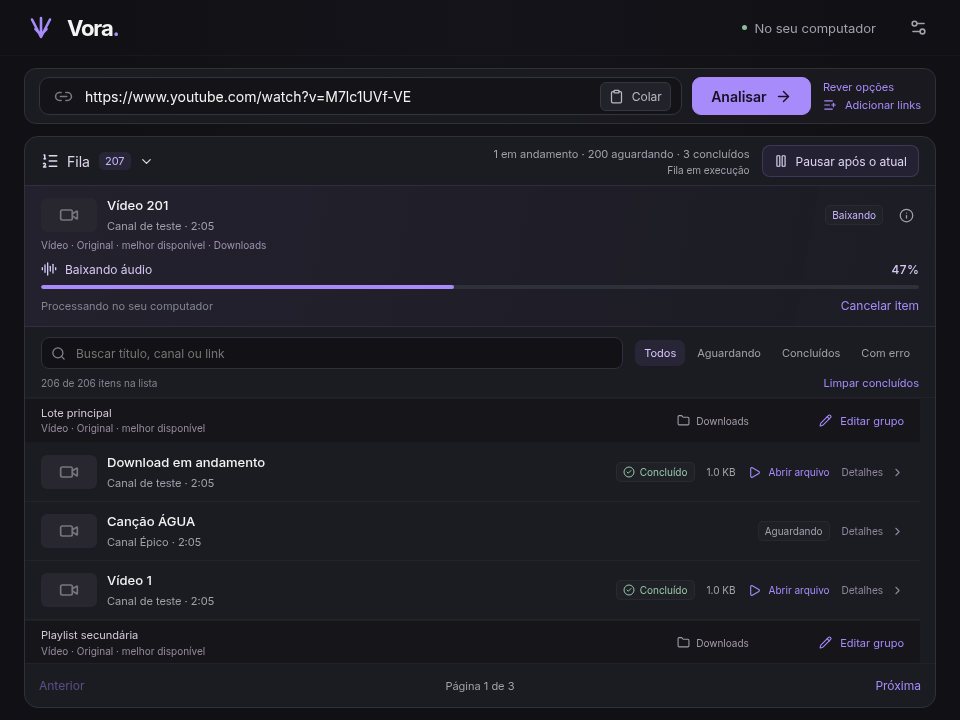
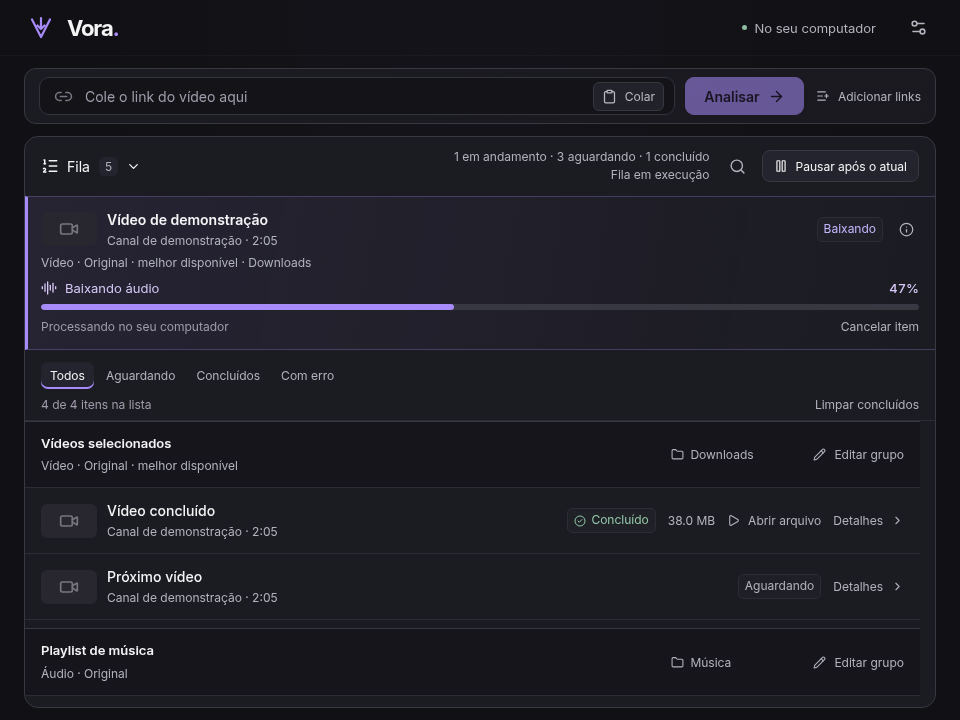
docs: document visual identity and refresh screenshots

diff --git a/docs/VISUAL_IDENTITY.md b/docs/VISUAL_IDENTITY.md
@@ -1,0 +1,51 @@
+# Identidade visual do Vora
+
+O Vora usa superfícies escuras, tipografia Inter e lavanda para transmitir clareza, organização e autonomia. A assinatura verbal é **Áudio e vídeo, do seu jeito.**
+
+## Marca
+
+O símbolo combina um V com uma seta de download. A seta termina antes da ponta do V para preservar o espaço interno em tamanhos pequenos. O nome no aplicativo usa peso 700 e um ponto lavanda.
+
+A geometria do cabeçalho está em `src/App.tsx`; o ícone de instalação está em `assets/icon.svg`. Mantenha os dois desenhos alinhados e regenere `assets/icon.png` e `public/icon.png` ao alterar o SVG. Confira a leitura em 16, 24 e 32 px, além do ícone de 512 px.
+
+![Ícone do Vora em 16, 24 e 32 pixels sobre fundos escuro e claro](images/icones.png)
+
+A prancha registra a renderização no navegador em escala 1×. A aparência na barra de tarefas do Windows ainda precisa de conferência no próprio sistema.
+
+## Cores e hierarquia
+
+Os tokens ficam no início de `src/styles.css`.
+
+| Token                               | Uso                                                    |
+| ----------------------------------- | ------------------------------------------------------ |
+| `--canvas`                          | Fundo da janela e campos de busca                      |
+| `--surface`                         | Painéis principais                                     |
+| `--surface-inset`                   | Cabeçalhos de grupo e detalhes expandidos              |
+| `--surface-hover`                   | Ações secundárias, seleção de filtro e realce de linha |
+| `--border` / `--divider`            | Contornos de componentes e separação de conteúdo       |
+| `--text`                            | Títulos e informações principais                       |
+| `--muted` / `--subtle`              | Metadados, ações secundárias e informações auxiliares  |
+| `--accent` / `--accent-text`        | Marca, ação principal, progresso e foco                |
+| `--accent-soft` / `--accent-border` | Fundo e contornos do download ativo                    |
+| `--focus-ring`                      | Indicador de foco pelo teclado                         |
+| `--disabled-opacity`                | Opacidade uniforme de controles desabilitados          |
+
+Reserve o lavanda para os pontos de maior importância. Ações secundárias usam texto neutro; sucesso e erro mantêm cores semânticas acompanhadas de rótulos. O item ativo recebe uma borda lateral lavanda e uma barra de progresso. Os grupos usam fundo rebaixado, título em seminegrito e separação entre lotes.
+
+## Tipografia e espaçamento
+
+Use Inter nos pesos 400, 500, 600 e 700. Na fila, `--font-title` (14 px) identifica vídeos, `--font-body` (13 px) identifica grupos e conteúdo, e `--font-caption` (12 px) atende metadados e ações. Evite reduzir textos operacionais abaixo de 12 px.
+
+Use os tokens de espaçamento de 4, 8, 12 e 16 px. Os raios de controles e painéis usam `--radius-control` e `--radius-panel`.
+
+## Comportamento visual
+
+Linhas destacam hover e foco interno. O foco pelo teclado usa um contorno de 2 px, inclusive nos campos de link, busca, seleção, texto e caixas de seleção. Campos sem contorno próprio mostram o foco no seu contêiner. A seleção de filtros combina superfície, texto e sublinhado; preserve os indicadores de foco pelo teclado e a preferência por movimento reduzido.
+
+Controles desabilitados usam o mesmo token de opacidade, mostram cursor de indisponibilidade e não recebem realce de hover, inclusive quando desabilitados por um `fieldset`. As escolhas de vídeo e playlist preservam o destaque durante o hover e informam a seleção com `aria-pressed`.
+
+Mantenha uma única regra por seletor em cada contexto de mídia. Remova estilos de componentes descartados e reúna as mudanças de cada breakpoint no mesmo bloco. Os modificadores `.compact-layout` e `.queue-layout` definem a distribuição da janela e da fila.
+
+Em janelas de até 700 px, busca, resumo e ações podem ocupar linhas adicionais. A lista mantém sua própria rolagem, com o download ativo e seus controles fora dela. Confira títulos longos, grupos intercalados, avisos e diálogos em janelas pequenas ao alterar a densidade da interface.
+
+A busca da fila abre automaticamente a partir de 10 itens, sem contar o download ativo e antes de aplicar busca ou filtros. A lupa permite abri-la em filas menores. Fechar a busca limpa o texto e devolve o foco ao botão; os filtros continuam disponíveis. Uma busca em uso permanece visível quando a fila diminui.

diff --git a/docs/USAGE.md b/docs/USAGE.md
@@ -8,7 +8,7 @@
 4. Escolha a pasta e clique em **Adicionar à fila**.
 5. Na seção **Fila**, clique em **Iniciar fila**. Adicionar itens não inicia uma fila pausada.
 
-O layout permanece compacto desde a abertura, com o campo de link no topo e a área da fila ocupando o espaço restante. Sem itens, a fila mostra “Adicione um link para começar”; busca, filtros e controles de execução aparecem quando houver itens. Toda análise individual abre em um modal, inclusive a do primeiro vídeo. Adicionar fecha o modal; cancelar conserva a fila. **Rever opções** reabre os dados já analisados sem nova consulta. Confirmações de adição e duplicatas são compactas, dispensáveis e somem após seis segundos, suspendendo a contagem enquanto houver foco ou mouse sobre o aviso. Erros e avisos que exigem decisão continuam visíveis.
+O layout permanece compacto desde a abertura, com o campo de link no topo e a área da fila ocupando o espaço restante. Sem itens, a fila mostra “Adicione um link para começar”; filtros e controles de execução aparecem quando houver itens. A busca abre automaticamente a partir de 10 itens na lista, sem contar o download ativo. Em filas menores, use a lupa no cabeçalho. O campo permanece aberto durante a pesquisa, mesmo que a fila diminua; fechar pela opção **Fechar busca** ou pela tecla **Esc** no campo limpa a pesquisa e conserva o filtro selecionado. Toda análise individual abre em um modal, inclusive a do primeiro vídeo. Adicionar fecha o modal; cancelar conserva a fila. **Rever opções** reabre os dados já analisados sem nova consulta. Confirmações de adição e duplicatas são compactas, dispensáveis e somem após seis segundos, suspendendo a contagem enquanto houver foco ou mouse sobre o aviso. Erros e avisos que exigem decisão continuam visíveis.
 
 ### Vários links e playlists
 

diff --git a/README.md b/README.md
@@ -59,6 +59,7 @@ Stack: **Electron + React + TypeScript + Vite**, com ferramentas executadas loca
 
 - [Guia de uso](docs/USAGE.md): formatos, fila, playlists, notificações e recuperação.
 - [Desenvolvimento](docs/DEVELOPMENT.md): instalação, arquitetura, testes e empacotamento.
+- [Identidade visual](docs/VISUAL_IDENTITY.md): marca, cores, tipografia e hierarquia da interface.
 - [Publicação no GitHub](docs/RELEASING.md): preparação do repositório e das versões.
 - [Histórico de mudanças](CHANGELOG.md).
 - [Validação por versão](docs/VALIDATION.md).
